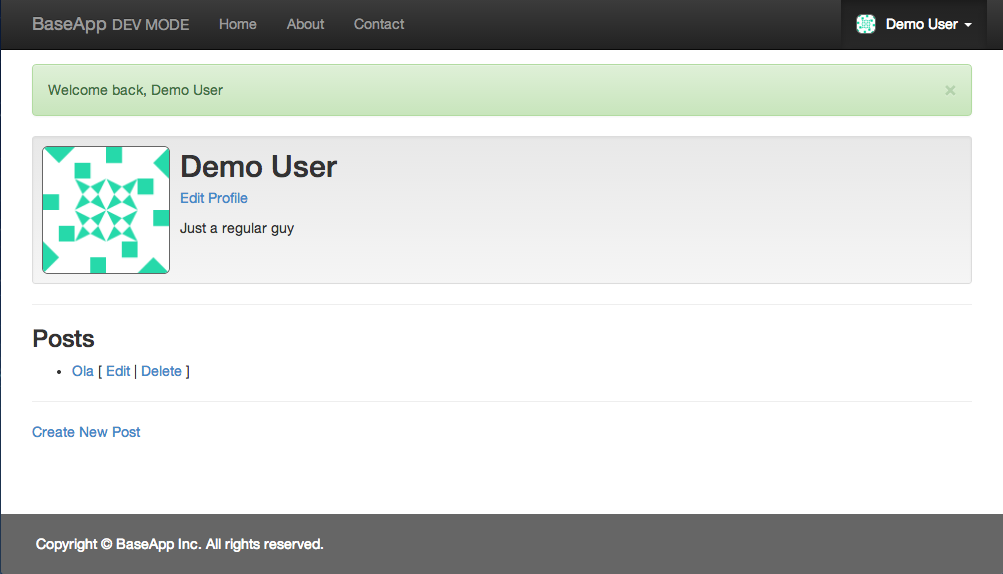
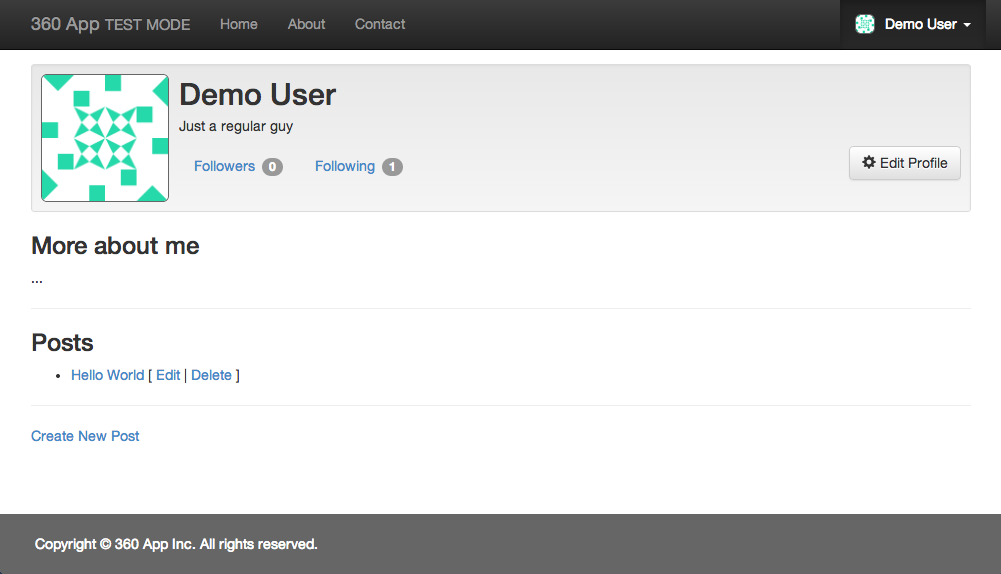
Update README to include Social Features + Screenshots

diff --git a/README.md b/README.md
@@ -1,9 +1,9 @@
 BaseApp
 =======
 
-#### A starter web application built in [Go](http://golang.org) on top of the [Revel Web Framework](https://revel.github.io) ####
+#### A bootstrap web application built in [Go](http://golang.org) on top of the [Revel Web Framework](https://revel.github.io) ####
 
-BaseApp is a Revel web application that provides a baseline web application starter kit with the following features:
+BaseApp is a bootstrap Revel web application that provides a baseline web application starter kit with the following features:
 
 * Basic pages (Home, About Us, Contact Us, etc)
 * Account registration (including safe storage of passwords with [bcrypt](https://en.wikipedia.org/wiki/Bcrypt))
@@ -12,7 +12,8 @@ BaseApp is a Revel web application that provides a baseline web application star
 * Account log in
 * Public user profiles (with Gravatar integration for profile photos and profile edit functionality)
 * Public user posts (with full Markdown support and edit + delete functionality)
-* Auto-configuring backend data store (SQLite3, MySQL, PostgreSQL)
+* Social Features (Profile Follower and Following Counts and Post Likes)
+* Auto-provisioned backend data store (SQLite3, MySQL, PostgreSQL)
 * Full form validation
 * Full non-interactive and interactive testing framework (Test-driven development process)
 
@@ -38,6 +39,14 @@ Display User Profile:
 
 <img src="https://github.com/richtr/baseapp/raw/master/screenshots/04.Profile.png" style="max-width: 100%"/>
 
+Followers Display:
+
+<img src="https://github.com/richtr/baseapp/raw/master/screenshots/11.Followers.png" style="max-width: 100%"/>
+
+Following Display:
+
+<img src="https://github.com/richtr/baseapp/raw/master/screenshots/11.Following.png" style="max-width: 100%"/>
+
 Edit User Profile Form:
 
 <img src="https://github.com/richtr/baseapp/raw/master/screenshots/05.EditProfile.png" style="max-width: 100%"/>
@@ -45,6 +54,10 @@ Edit User Profile Form:
 New Post Form:
 
 <img src="https://github.com/richtr/baseapp/raw/master/screenshots/06.NewPost.png" style="max-width: 100%"/>
+
+Post Display:
+
+<img src="https://github.com/richtr/baseapp/raw/master/screenshots/10.Post.png" style="max-width: 100%"/>
 
 Reset Password Form (if email settings are provided in `conf/app.conf`):
 
